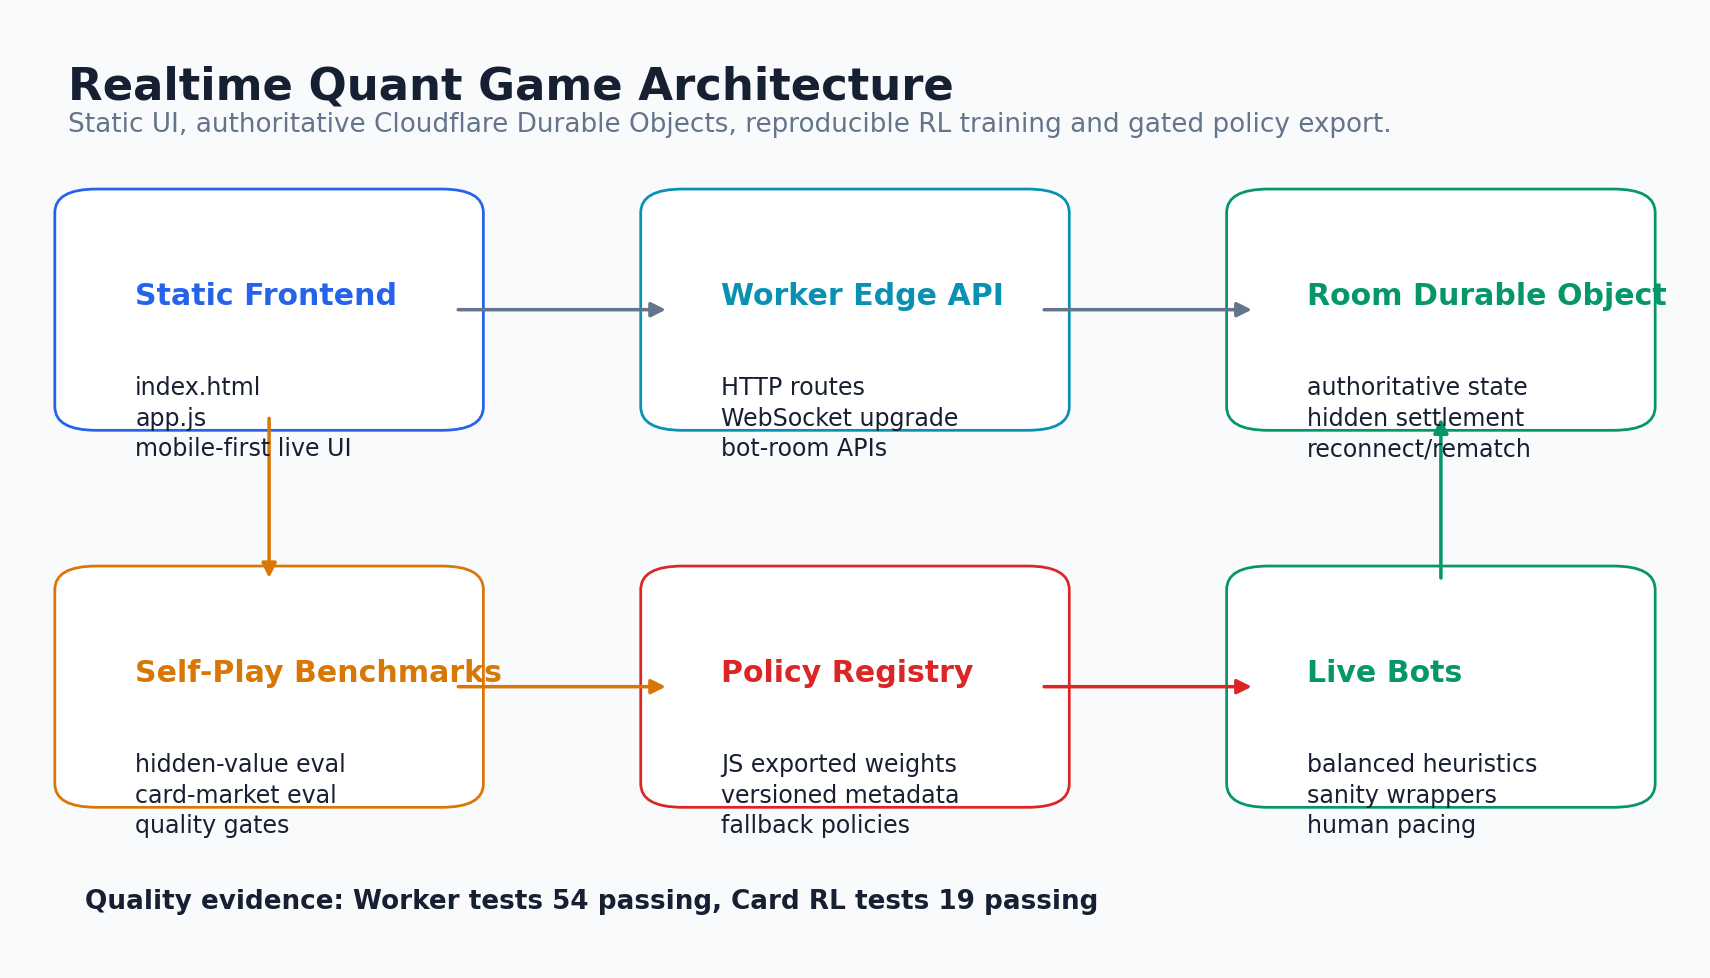
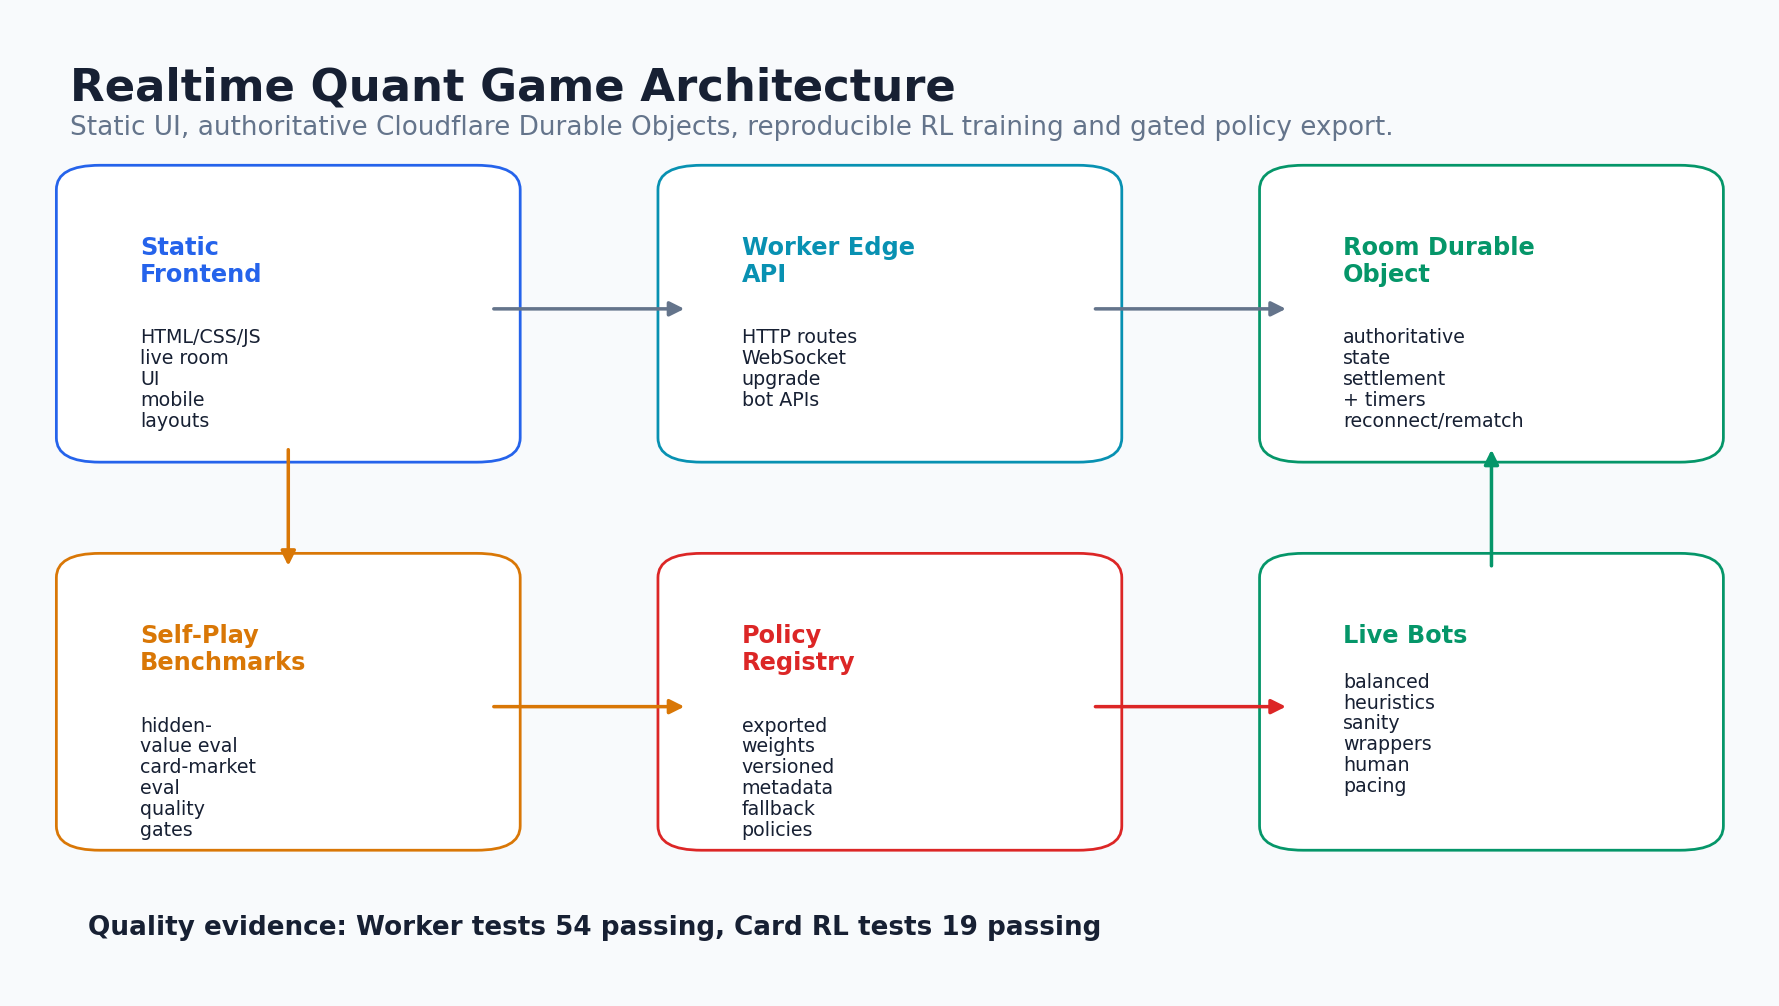
New Figures

diff --git a/scripts/generate_portfolio_graphics.py b/scripts/generate_portfolio_graphics.py
@@ -3,6 +3,7 @@ from __future__ import annotations
 
 import json
 import os
+import textwrap
 from pathlib import Path
 
 ROOT = Path(__file__).resolve().parents[1]
@@ -59,7 +60,26 @@ def style_axis(ax: plt.Axes) -> None:
     ax.set_axisbelow(True)
 
 
-def draw_box(ax: plt.Axes, xy: tuple[float, float], wh: tuple[float, float], title: str, body: str, color: str) -> None:
+def wrap_for_box(text: str, width: float, chars_per_axis: int) -> str:
+    line_width = max(8, int(width * chars_per_axis))
+    wrapped_lines = []
+    for line in str(text).splitlines() or [""]:
+        wrapped_lines.extend(textwrap.wrap(line, width=line_width, break_long_words=False) or [""])
+    return "\n".join(wrapped_lines)
+
+
+def draw_box(
+    ax: plt.Axes,
+    xy: tuple[float, float],
+    wh: tuple[float, float],
+    title: str,
+    body: str,
+    color: str,
+    *,
+    title_font: float = 10.8,
+    body_font: float = 8.8,
+    body_linespacing: float = 1.28,
+) -> None:
     x, y = xy
     w, h = wh
     patch = FancyBboxPatch(
@@ -72,8 +92,33 @@ def draw_box(ax: plt.Axes, xy: tuple[float, float], wh: tuple[float, float], tit
         facecolor=COLORS["panel"],
     )
     ax.add_patch(patch)
-    ax.text(x + 0.03, y + h - 0.08, title, color=color, fontsize=12, fontweight="bold", va="top")
-    ax.text(x + 0.03, y + h - 0.18, body, color=COLORS["ink"], fontsize=9.5, va="top", linespacing=1.35)
+    title_text = wrap_for_box(title, w, 58)
+    body_text = wrap_for_box(body, w, 48)
+    title_artist = ax.text(
+        x + 0.03,
+        y + h - 0.055,
+        title_text,
+        color=color,
+        fontsize=title_font,
+        fontweight="bold",
+        va="top",
+        linespacing=1.15,
+        clip_on=True,
+    )
+    title_lines = max(1, title_text.count("\n") + 1)
+    body_y = y + h - 0.105 - (title_lines - 1) * 0.045
+    body_artist = ax.text(
+        x + 0.03,
+        body_y,
+        body_text,
+        color=COLORS["ink"],
+        fontsize=body_font,
+        va="top",
+        linespacing=body_linespacing,
+        clip_on=True,
+    )
+    title_artist.set_clip_path(patch)
+    body_artist.set_clip_path(patch)
 
 
 def draw_arrow(ax: plt.Axes, start: tuple[float, float], end: tuple[float, float], color: str = COLORS["muted"]) -> None:
@@ -82,7 +127,7 @@ def draw_arrow(ax: plt.Axes, start: tuple[float, float], end: tuple[float, float
 
 
 def architecture(summary: dict) -> None:
-    fig, ax = plt.subplots(figsize=(12, 6.8))
+    fig, ax = plt.subplots(figsize=(12.5, 7.0))
     fig.patch.set_facecolor(COLORS["bg"])
     ax.set_xlim(0, 1)
     ax.set_ylim(0, 1)
@@ -97,20 +142,21 @@ def architecture(summary: dict) -> None:
         va="top",
     )
 
-    draw_box(ax, (0.04, 0.58), (0.22, 0.22), "Static Frontend", "index.html\napp.js\nmobile-first live UI", COLORS["blue"])
-    draw_box(ax, (0.39, 0.58), (0.22, 0.22), "Worker Edge API", "HTTP routes\nWebSocket upgrade\nbot-room APIs", COLORS["cyan"])
-    draw_box(ax, (0.74, 0.58), (0.22, 0.22), "Room Durable Object", "authoritative state\nhidden settlement\nreconnect/rematch", COLORS["green"])
+    arch_box = {"title_font": 9.6, "body_font": 7.6, "body_linespacing": 1.12}
+    draw_box(ax, (0.04, 0.56), (0.23, 0.27), "Static Frontend", "HTML/CSS/JS\nlive room UI\nmobile layouts", COLORS["blue"], **arch_box)
+    draw_box(ax, (0.385, 0.56), (0.23, 0.27), "Worker Edge API", "HTTP routes\nWebSocket upgrade\nbot APIs", COLORS["cyan"], **arch_box)
+    draw_box(ax, (0.73, 0.56), (0.23, 0.27), "Room Durable Object", "authoritative state\nsettlement + timers\nreconnect/rematch", COLORS["green"], **arch_box)
 
-    draw_box(ax, (0.04, 0.18), (0.22, 0.22), "Self-Play Benchmarks", "hidden-value eval\ncard-market eval\nquality gates", COLORS["orange"])
-    draw_box(ax, (0.39, 0.18), (0.22, 0.22), "Policy Registry", "JS exported weights\nversioned metadata\nfallback policies", COLORS["red"])
-    draw_box(ax, (0.74, 0.18), (0.22, 0.22), "Live Bots", "balanced heuristics\nsanity wrappers\nhuman pacing", COLORS["green"])
+    draw_box(ax, (0.04, 0.16), (0.23, 0.27), "Self-Play Benchmarks", "hidden-value eval\ncard-market eval\nquality gates", COLORS["orange"], **arch_box)
+    draw_box(ax, (0.385, 0.16), (0.23, 0.27), "Policy Registry", "exported weights\nversioned metadata\nfallback policies", COLORS["red"], **arch_box)
+    draw_box(ax, (0.73, 0.16), (0.23, 0.27), "Live Bots", "balanced heuristics\nsanity wrappers\nhuman pacing", COLORS["green"], **arch_box)
 
-    draw_arrow(ax, (0.26, 0.69), (0.39, 0.69))
-    draw_arrow(ax, (0.61, 0.69), (0.74, 0.69))
-    draw_arrow(ax, (0.15, 0.58), (0.15, 0.40), COLORS["orange"])
-    draw_arrow(ax, (0.26, 0.29), (0.39, 0.29), COLORS["orange"])
-    draw_arrow(ax, (0.61, 0.29), (0.74, 0.29), COLORS["red"])
-    draw_arrow(ax, (0.85, 0.40), (0.85, 0.58), COLORS["green"])
+    draw_arrow(ax, (0.27, 0.70), (0.385, 0.70))
+    draw_arrow(ax, (0.615, 0.70), (0.73, 0.70))
+    draw_arrow(ax, (0.155, 0.56), (0.155, 0.43), COLORS["orange"])
+    draw_arrow(ax, (0.27, 0.29), (0.385, 0.29), COLORS["orange"])
+    draw_arrow(ax, (0.615, 0.29), (0.73, 0.29), COLORS["red"])
+    draw_arrow(ax, (0.845, 0.43), (0.845, 0.56), COLORS["green"])
 
     tests = summary.get("tests", {})
     worker = tests.get("worker", {}).get("pass")
@@ -243,16 +289,16 @@ def quality_panel(summary: dict) -> None:
         ("Card RL live gate", "pass" if live_ready else "research only", COLORS["orange"] if not live_ready else COLORS["green"]),
     ]
 
-    fig, ax = plt.subplots(figsize=(9.5, 4.6))
+    fig, ax = plt.subplots(figsize=(10.5, 5.4))
     fig.patch.set_facecolor(COLORS["bg"])
     ax.set_xlim(0, 1)
     ax.set_ylim(0, 1)
     ax.axis("off")
     ax.text(0.04, 0.92, "Quality Gates And Evidence", fontsize=17, fontweight="bold", color=COLORS["ink"], va="top")
     for index, (title, value, color) in enumerate(items):
-        x = 0.05 + (index % 2) * 0.47
-        y = 0.55 - (index // 2) * 0.30
-        draw_box(ax, (x, y), (0.40, 0.20), title, value, color)
+        x = 0.06 + (index % 2) * 0.47
+        y = 0.53 - (index // 2) * 0.31
+        draw_box(ax, (x, y), (0.39, 0.25), title, value, color)
     save(fig, "quality-gates.png")
 
 
